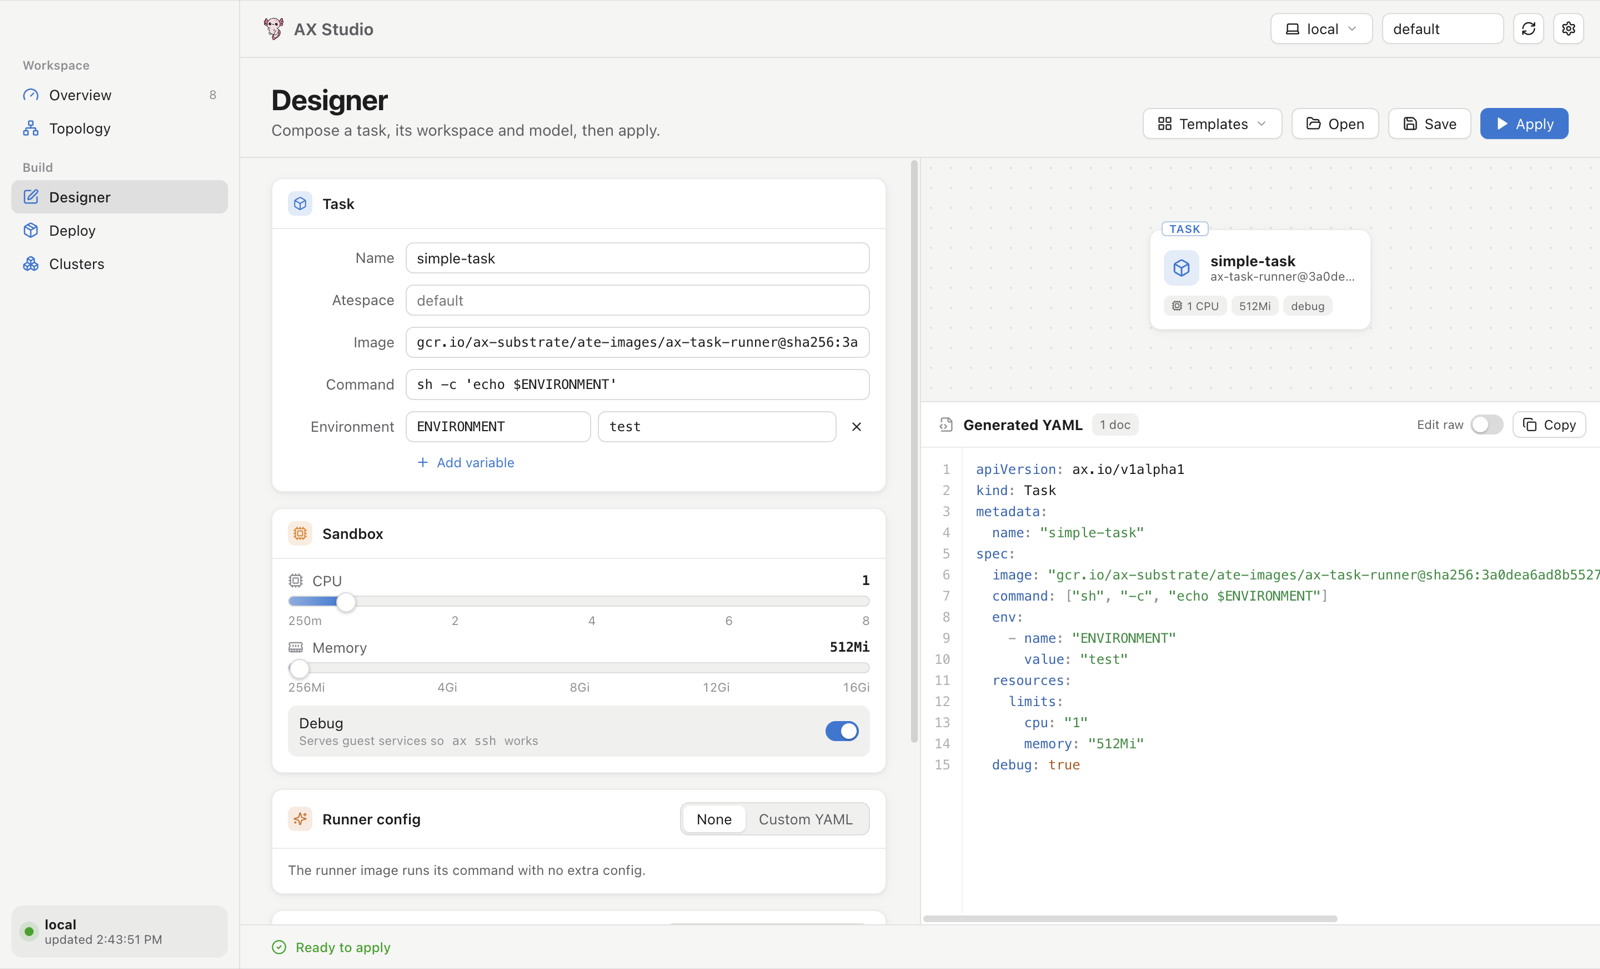
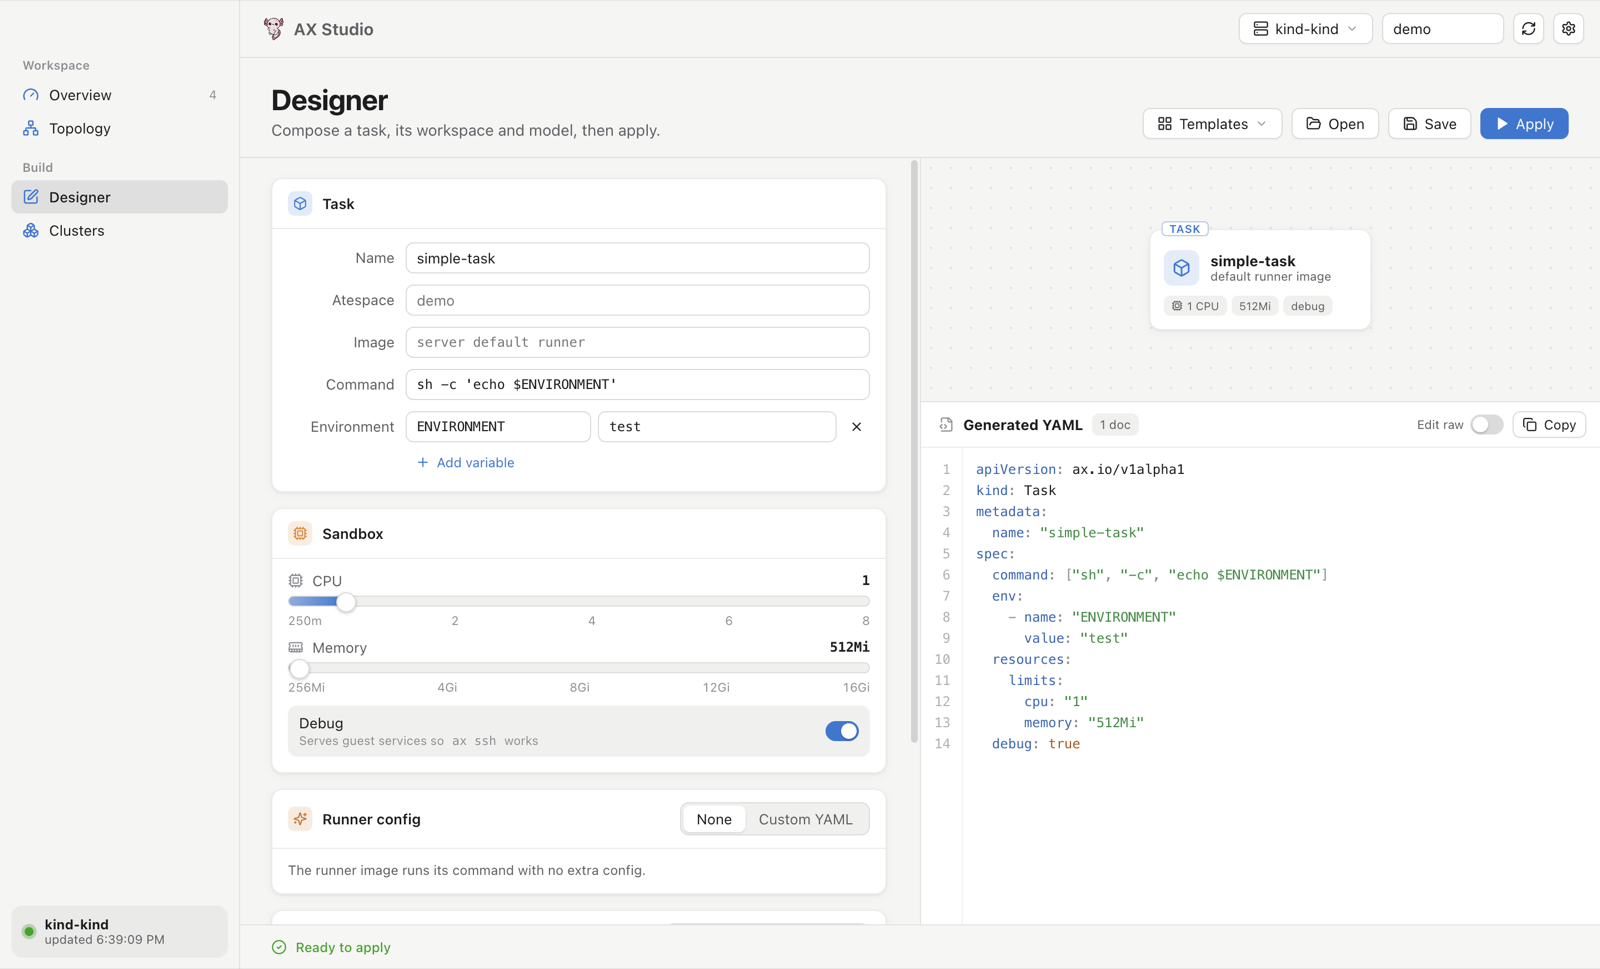
Refresh screenshots, add task logs, --atespace screenshot flag

diff --git a/src/main/index.ts b/src/main/index.ts
@@ -39,10 +39,10 @@ function createWindow() {
     return { action: 'deny' }
   })
   // `--section=clusters` opens a specific page; `--cluster=name` expands a
-  // cluster card; `--context=name` and `--task=name` open a task's inspector, and
+  // cluster card; `--context`, `--atespace` and `--task=name` open a task's inspector, and
   // `--logs=expanded` opens its logs in the large view.
   const query: Record<string, string> = {}
-  for (const k of ['section', 'cluster', 'context', 'task', 'logs']) {
+  for (const k of ['section', 'cluster', 'context', 'atespace', 'task', 'logs']) {
     const v = arg(k)
     if (v) query[k] = v
   }

diff --git a/src/renderer/src/model/store.ts b/src/renderer/src/model/store.ts
@@ -72,7 +72,7 @@ class Store {
     section: [new URLSearchParams(location.search).get('section'), localStorage.getItem(SECTION_KEY)].find((x): x is Section => SECTIONS.includes(x as Section)) ?? 'overview',
     contexts: [],
     context: '',
-    atespace: 'default',
+    atespace: new URLSearchParams(location.search).get('atespace') || 'default',
     tasks: [],
     workspaces: [],
     models: [],

diff --git a/README.md b/README.md
@@ -18,7 +18,7 @@ and packaged as a native app for macOS, Windows and Linux.
 | | |
 |---|---|
 | ![Topology](docs/screenshots/topology.png) **Topology** | ![Designer](docs/screenshots/designer.png) **Designer** |
-| ![Clusters](docs/screenshots/clusters.png) **Clusters** | |
+| ![Clusters](docs/screenshots/clusters.png) **Clusters** | ![Task logs](docs/screenshots/logs.png) **Task logs**, expanded |
 
 The app shells out to the `ax` CLI (and `kubectl`, `make`, `go`, `podman`/`docker`
 to create clusters). It passes `--context` on every call and gives cluster setup a
